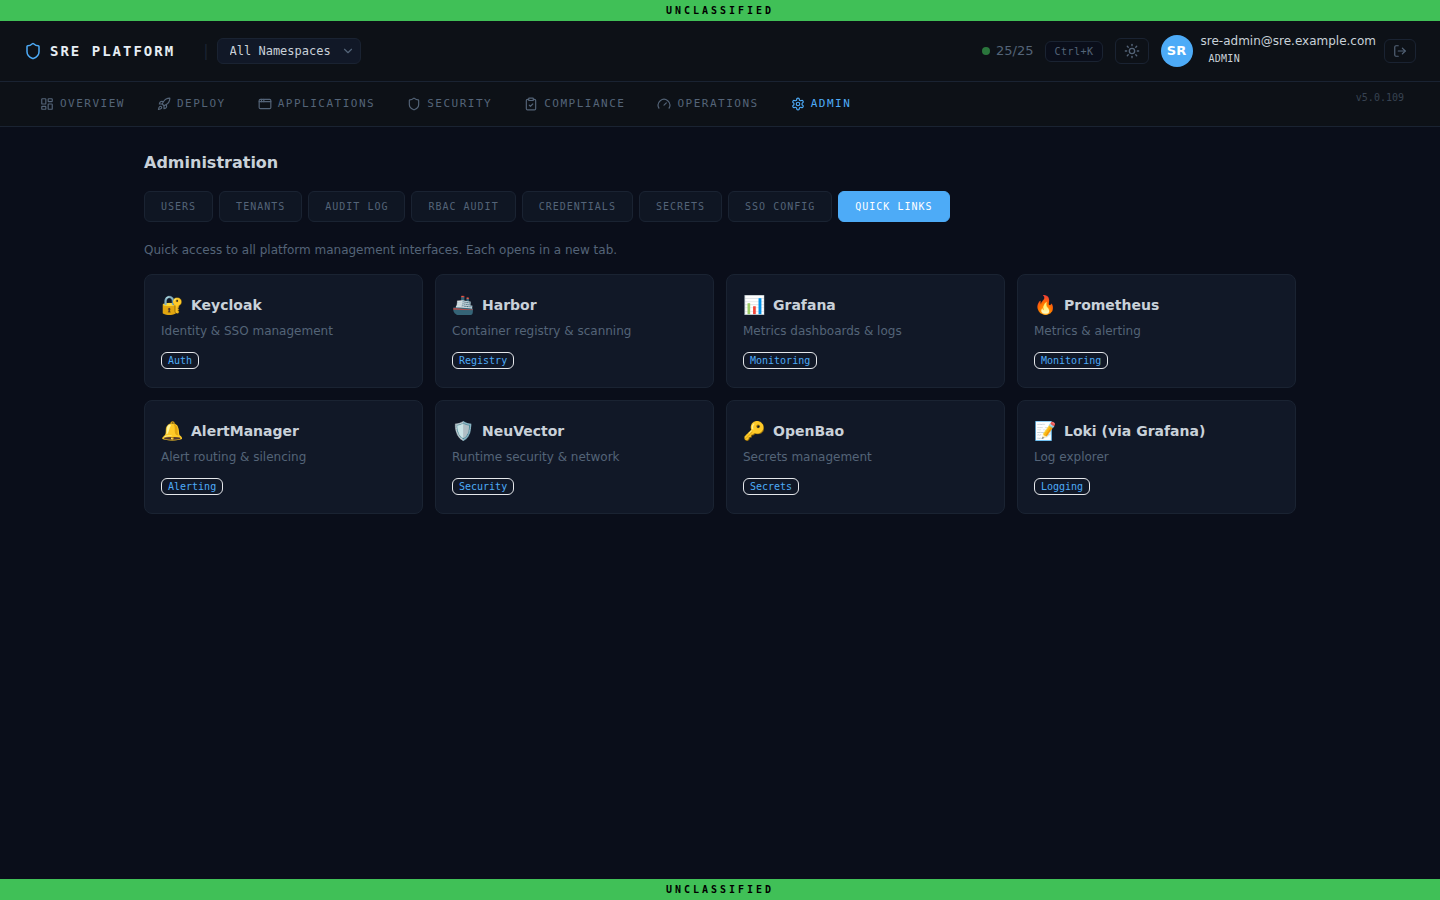
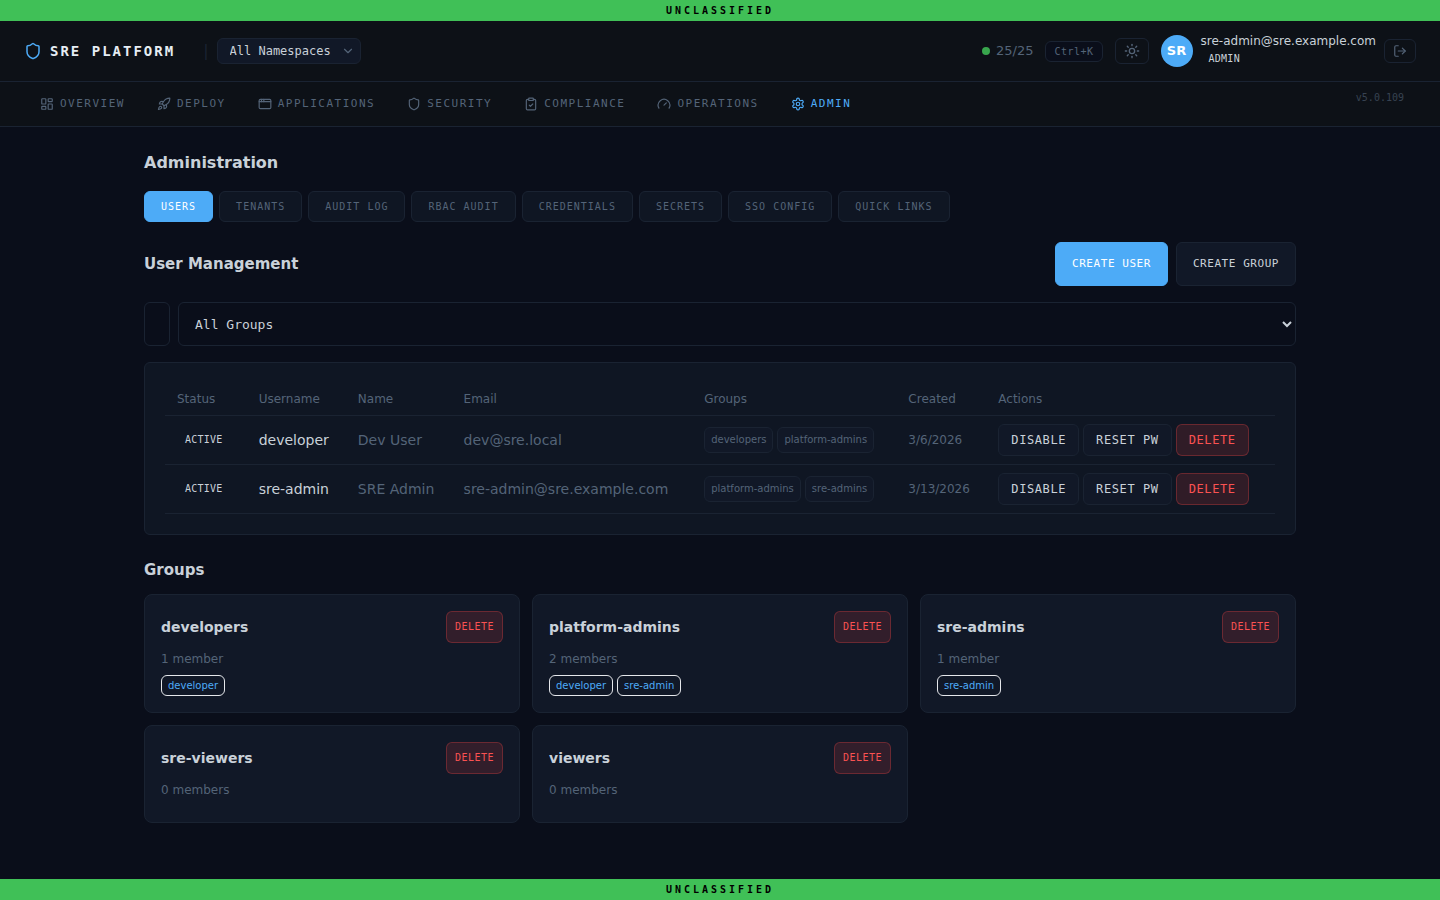
fix: recapture operations (15s wait) and admin (click tab directly)
Operations tab now shows node stats, CPU/memory bars, and service
health grid fully loaded. Admin tab shows Users table with 2 users,
Groups section with 5 groups, and Create User/Group buttons.
Quick Links shows all 8 platform service cards separately.

diff --git a/docs/capture-screenshots.js b/docs/capture-screenshots.js
@@ -44,12 +44,11 @@ async function capture(page, name, opts = {}) {
 
   // Navigate to each tab and capture
   const tabs = [
-    { hash: 'deploy', name: '04-deploy-tab', wait: 5000 },
-    { hash: 'applications', name: '05-applications-tab', wait: 8000 },
-    { hash: 'security', name: '06-security-tab', wait: 10000 },
-    { hash: 'operations', name: '07-operations-tab', wait: 8000 },
-    { hash: 'compliance', name: '08-compliance-tab', wait: 8000 },
-    { hash: 'admin', name: '09-admin-tab', wait: 8000 },
+    { hash: 'deploy', name: '04-deploy-tab', wait: 6000 },
+    { hash: 'applications', name: '05-applications-tab', wait: 10000 },
+    { hash: 'security', name: '06-security-tab', wait: 12000 },
+    { hash: 'operations', name: '07-operations-tab', wait: 15000 },
+    { hash: 'compliance', name: '08-compliance-tab', wait: 10000 },
   ];
 
   for (const tab of tabs) {
@@ -85,29 +84,23 @@ async function capture(page, name, opts = {}) {
     await capture(page, '11-health-checks');
   }
 
-  // Security > Pipeline Runs subtab
-  console.log('Capturing pipeline runs...');
-  await page.goto(`${DASHBOARD_URL}/#security`, { waitUntil: 'domcontentloaded', timeout: 15000 });
-  await delay(10000);
-  await capture(page, '12-pipeline-runs');
+  // Admin tab — click directly since hash nav doesn't work after OAuth redirect
+  console.log('Capturing admin tab...');
+  const adminNavBtn = await page.$('button:has-text("Admin")');
+  if (adminNavBtn) {
+    await adminNavBtn.click();
+    await delay(12000);
+    await capture(page, '09-admin-tab');
+  }
 
   // Admin > Quick Links
   console.log('Capturing admin quick links...');
-  await page.goto(`${DASHBOARD_URL}/#admin`, { waitUntil: 'domcontentloaded', timeout: 15000 });
-  await delay(8000);
-  await capture(page, '09-admin-tab-users', { wait: 1000 });
   const linksTab = await page.$('button:has-text("QUICK LINKS")');
   if (linksTab) {
     await linksTab.click();
     await delay(3000);
     await capture(page, '13-admin-quick-links');
   }
-
-  // Compliance > Live Report
-  console.log('Capturing compliance...');
-  await page.goto(`${DASHBOARD_URL}/#compliance`, { waitUntil: 'domcontentloaded', timeout: 15000 });
-  await delay(8000);
-  await capture(page, '14-compliance-tab');
 
   await browser.close();
   console.log('\nDone! Screenshots saved to docs/screenshots/');
